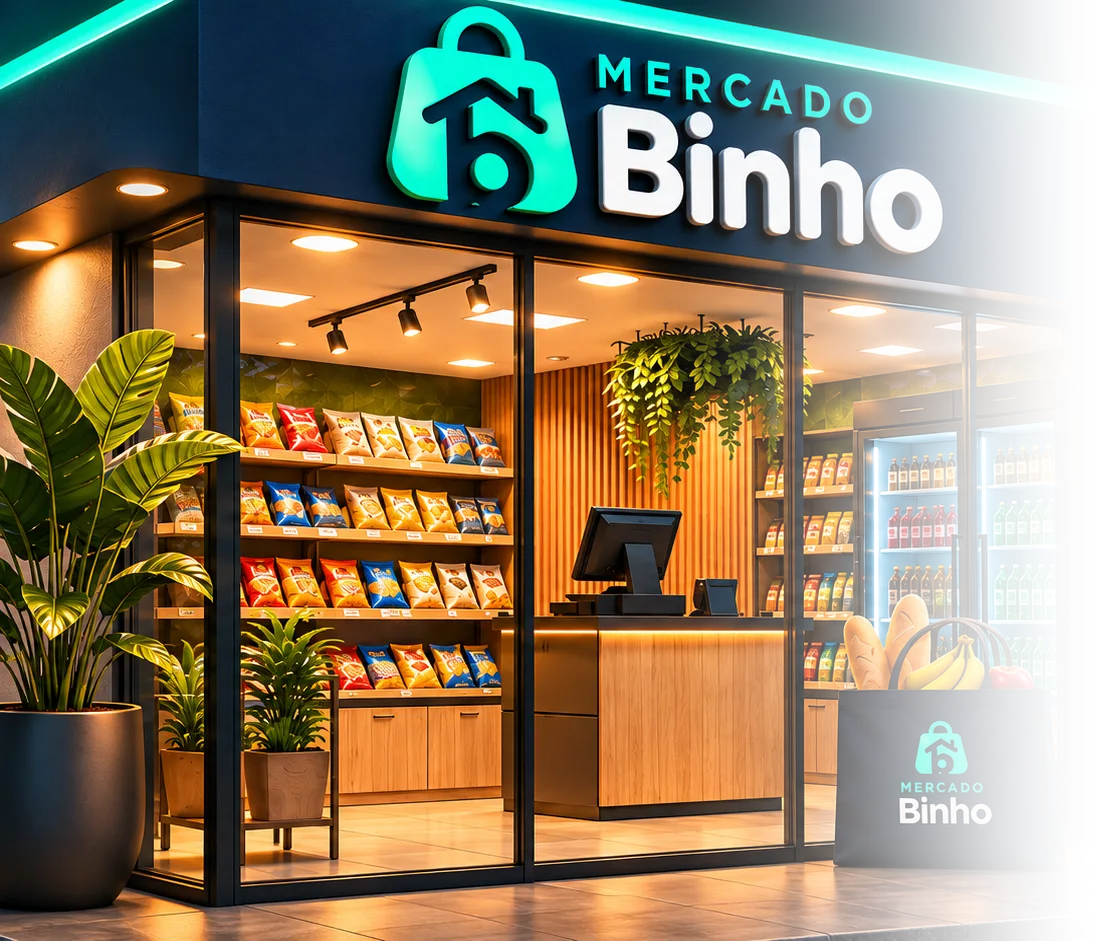
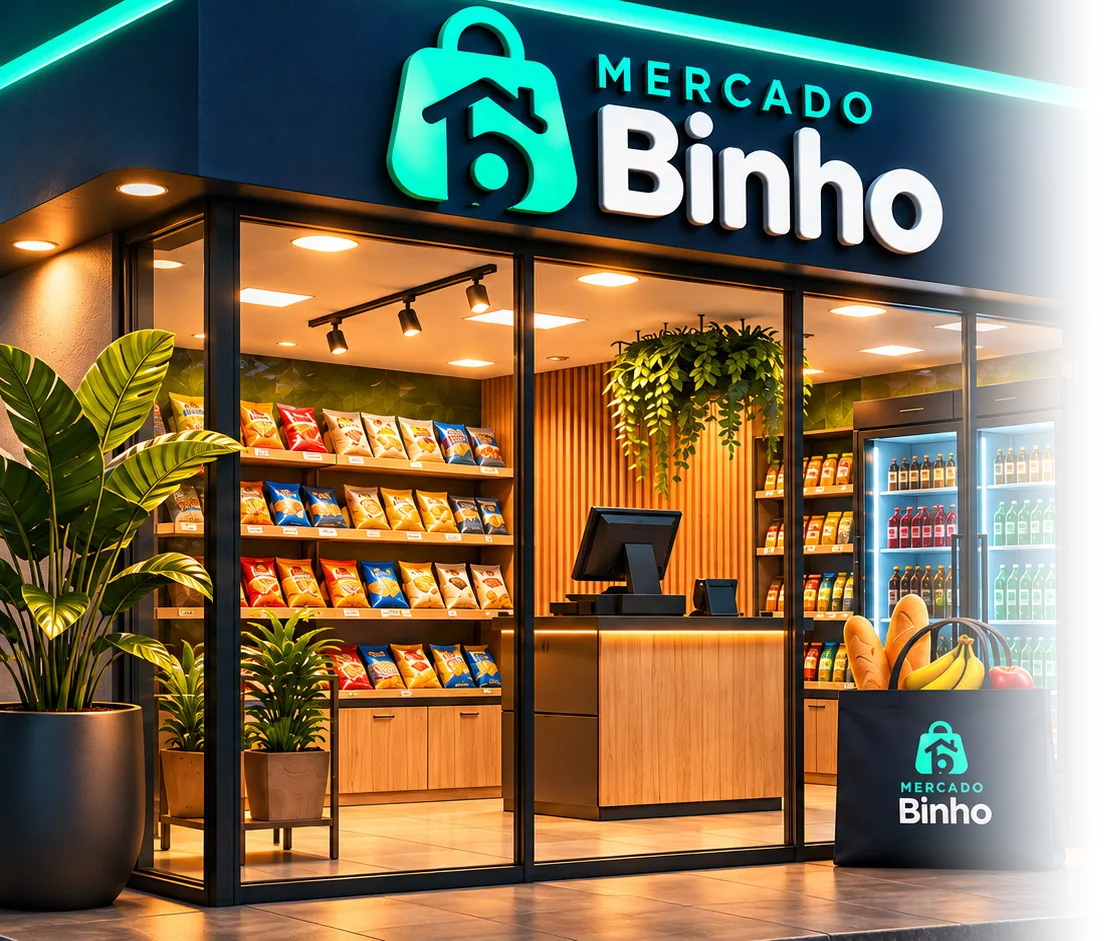
Deixar a fachada da loja em evidencia na tela de entrada
Desfaz o logo que eu tinha posto no alto: nao era o pedido.

O que estava errado era o degrade. O esmaecimento gravado no arquivo
comecava em 58% da largura da imagem, que cai em cima do letreiro da
loja, e um veu no topo escurecia a fachada por cima. Agora o
esmaecimento so comeca em 80%, ja passado o letreiro, o veu de cima
saiu e o lateral so entra a partir de 58% da tela.

Claude-Session: https://claude.ai/code/session_012tTAp3c4SANUj1hB1LatwT

Changed region(s): [[0.6467, 0.0, 0.9547, 1.0]]

diff --git a/mercadinho/public/css/vidro.css b/mercadinho/public/css/vidro.css
@@ -365,22 +365,13 @@ td.direita, th.direita{ text-align: right; }
   padding: clamp(16px, 4vh, 40px) clamp(16px, 5vw, 72px);
   background: #011829; color: #E7F4F1;
 }
-/* A marca fica no alto, fora do fluxo, para não disputar espaço com o cartão. */
-.entrada .topo-entrada{
-  position: absolute; z-index: 2;
-  top: clamp(18px, 3.4vh, 34px); left: clamp(16px, 5vw, 56px);
-}
-.entrada .topo-entrada .logo{
-  display: block; width: clamp(140px, 13.5vw, 196px); height: auto;
-  filter: drop-shadow(0 8px 22px rgba(0,0,0,.65));
-}
+
 /* A foto em tamanho natural à esquerda, com um véu que a dissolve no escuro da marca
  * antes de chegar ao cartão — assim não há corte visível nem deformação da loja. */
 .entrada::before{
   content: ''; position: fixed; inset: 0; z-index: 0; pointer-events: none;
   background:
-    linear-gradient(180deg, rgba(1,18,30,.58) 0%, rgba(1,18,30,.18) 14%, rgba(1,18,30,0) 26%),
-    linear-gradient(96deg, rgba(1,18,30,.06) 0%, rgba(1,18,30,.20) 45%, rgba(1,18,30,.42) 80%),
+    linear-gradient(96deg, rgba(1,18,30,0) 0%, rgba(1,18,30,0) 58%, rgba(1,18,30,.22) 78%, rgba(1,18,30,.40) 100%),
     url("../img/loja.webp") left center / auto 100% no-repeat;
 }
 .entrada .painel-entrada{ position: relative; z-index: 1; width: 100%; max-width: 432px; }

diff --git a/mercadinho/public/js/app.js b/mercadinho/public/js/app.js
@@ -100,12 +100,7 @@ function telaLogin(erro) {
     });
   }
 
-  const nome = estado.publico.nome_mercado || 'Mercado Binho';
-
   limpar($('#app'), el('div', { class: 'entrada' },
-    el('header', { class: 'topo-entrada' },
-      el('img', { class: 'logo', src: `${RAIZ}/img/binho-logo.png`, alt: nome })),
-
     el('div', { class: 'painel-entrada' },
       el('div', { class: 'cartao caixa' },
         el('span', { class: 'selo-entrada' }, icone('entrar')),
